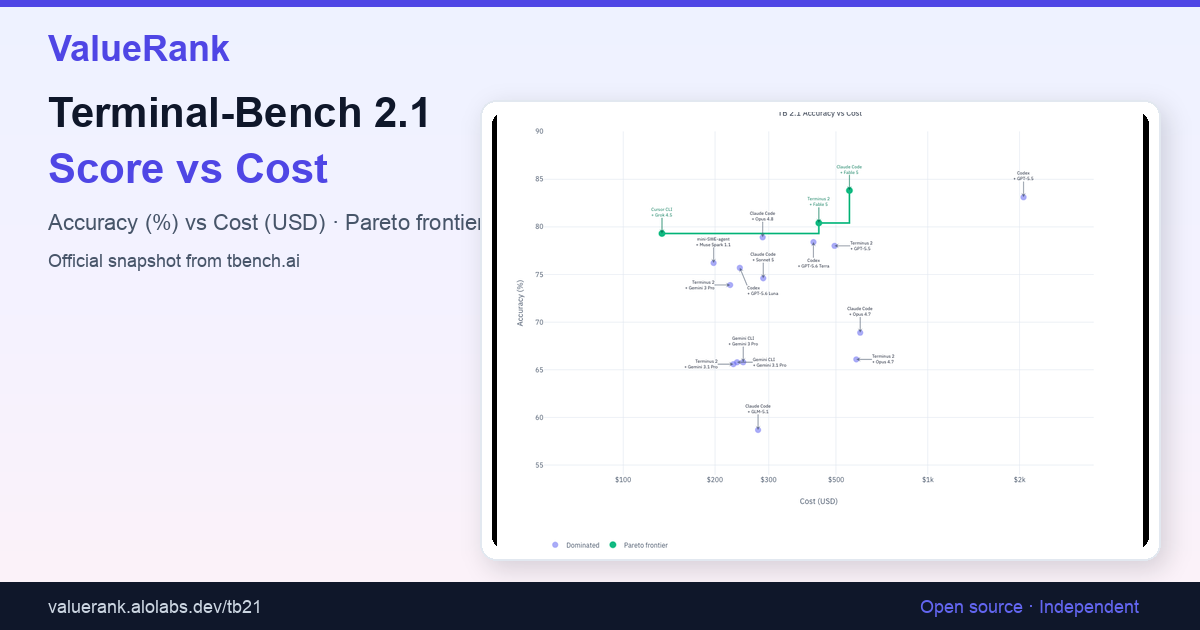
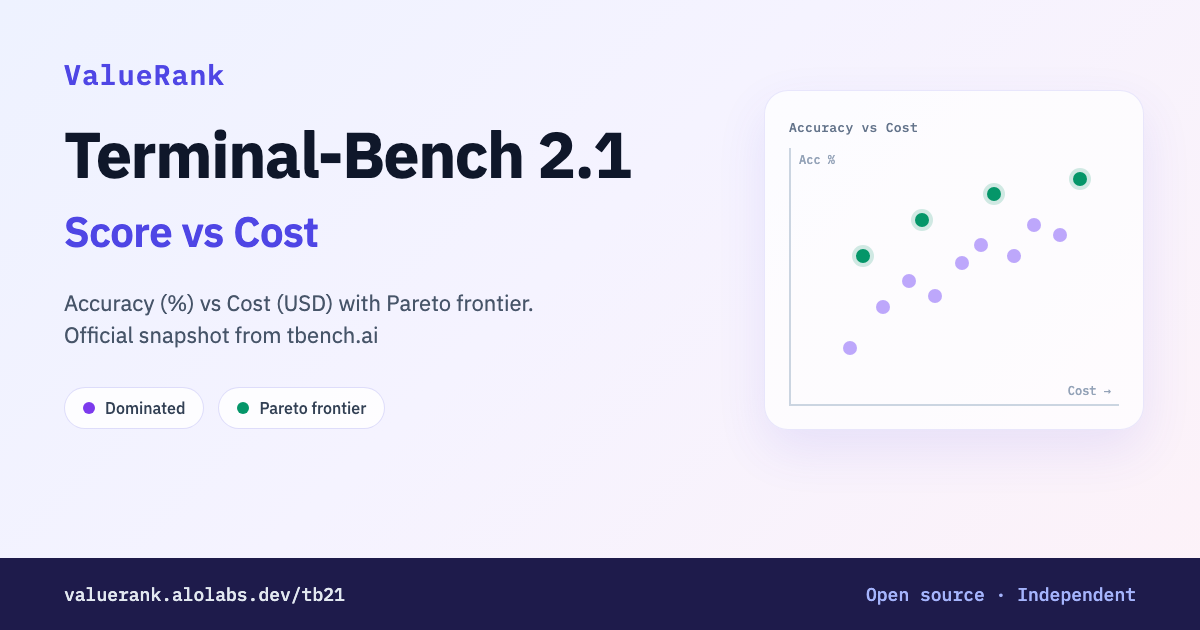
Fix TB21 WhatsApp/OG share image overlapping text.
Replace cramped chart screenshot with a clean branded 1200×630 card and cache-bust og/twitter image URLs.

diff --git a/site/tb21/index.html b/site/tb21/index.html
@@ -9,14 +9,14 @@
  <meta property="og:description" content="Official Terminal-Bench 2.1 Accuracy (%) vs Cost (USD) with Pareto frontier. Snapshot from tbench.ai.">
  <meta property="og:url" content="https://valuerank.alolabs.dev/tb21/">
  <meta property="og:type" content="website">
- <meta property="og:image" content="https://valuerank.alolabs.dev/tb21/og.png">
+ <meta property="og:image" content="https://valuerank.alolabs.dev/tb21/og.png?v=2">
  <meta property="og:image:width" content="1200">
  <meta property="og:image:height" content="630">
  <meta property="og:image:type" content="image/png">
  <meta name="twitter:card" content="summary_large_image">
  <meta name="twitter:title" content="Terminal-Bench 2.1 — Score vs Cost · ValueRank">
  <meta name="twitter:description" content="Official Terminal-Bench 2.1 Accuracy (%) vs Cost (USD) with Pareto frontier. Snapshot from tbench.ai.">
- <meta name="twitter:image" content="https://valuerank.alolabs.dev/tb21/og.png">
+ <meta name="twitter:image" content="https://valuerank.alolabs.dev/tb21/og.png?v=2">
  <link rel="preconnect" href="https://fonts.googleapis.com">
  <link rel="preconnect" href="https://fonts.gstatic.com" crossorigin>
  <link href="https://fonts.googleapis.com/css2?family=IBM+Plex+Mono:wght@400;500;600&family=IBM+Plex+Sans:ital,wght@0,300;0,400;0,500;0,600;0,700;1,400&display=swap" rel="stylesheet">
